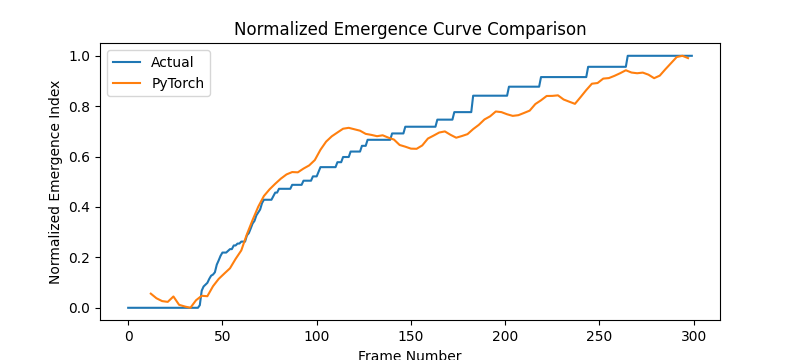
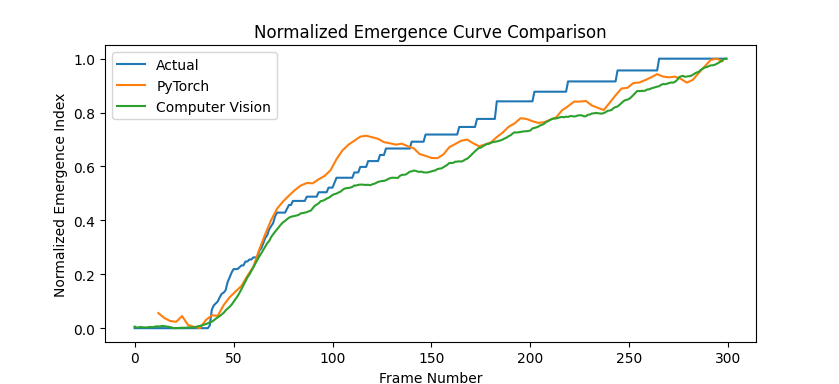
Updated poster

diff --git a/poster/poster.tex b/poster/poster.tex
@@ -9,7 +9,7 @@
 
 \usepackage[T1]{fontenc}
 \usepackage{lmodern}
-\usepackage[size=custom,width=101.6,height=76.2,scale=1.0]{beamerposter}
+\usepackage[size=custom,width=101.6,height=76.2,scale=1.2]{beamerposter}
 \usetheme{gemini}
 \usecolortheme{umn}
 \usepackage{graphicx}
@@ -36,7 +36,7 @@
 % Title
 % ====================
 
-\title{Phase-Sense: Physics Guided AI}
+\title{PhaseSense}
 
 \author{Joel Kuehne \and Alexis MacLean \and Cole Jaeger \and Hamza Rahmoune }
 
@@ -72,12 +72,10 @@
 
 \begin{column}{\colwidth}
 
-  \begin{block}{Emergent Phenomena and Colloidal Aggregation}
-    To cite Cambridge Dictionary, ``An emergent property of a complex system is one that does not belong to any part of that system on its own, but that happens as a result of parts of the system interacting''. This could be particles colliding in a fluid and sticking together forming clusters or it could be individual atoms joining together during crystal growth.
+  \begin{block}{Emergent Phenomena}
+    Cambridge Dictionary - ``An emergent property of a complex system is one that does not belong to any part of that system on its own, but that happens as a result of parts of the system interacting''. Emergent phenomena are everywhere, and the analysis of emergent phenomena is useful in many fields.
 
-    Emergent phenomena are everywhere, and the analysis of emergent phenomena is useful in many fields. When trying to understand or analyze emergent phenomena, it is useful to have some measure of the relative progress of the phenomenon. In general, we call this measure of the relative progress of the event over time the ``emergence index''. A plot of the emergence index over time is therefore an ``emergence curve''.
-
-    Researchers at the University of Pennsylvania use this framework in their analysis of the aggregation of asbestos particles in the paper ``Aggregation of Elongated Colloids in Water''~\cite{aggr}. Figure~\ref{fig:emergence} below shows some of the emergence curves that they gathered from timelapse microscope video. Note the three distinct phases of aggregation. In Phase I, aggregation has not yet started. There is a distinct onset time between Phase I and Phase II, where aggregation takes off. By Phase III, the aggregation has completed and the emergence curve levels off.
+    For example, understanding the aggregation kinetics of asbestos particles suspended in water can help researchers better understand how asbestos spreads in wet environments (see Figure~\ref{fig:emergence} below). Being able to predict the onset of HTT (Huntingtin) protein aggregation in neurons under a microscope is important for research on neurodegenerative diseases such as Huntington's disease~\cite{htt}.
 
     \begin{figure}[h]
       \centering
@@ -88,13 +86,11 @@
   \end{block}
 
   \begin{block}{Neural Networks for Emergence Analysis}
-    Analysis of emergent phenomena can be difficult. Classical computer vision techniques work well when particles can be easily distinguished and the emergence index can be calculated directly. This is not always the case. Low resolutions, small particle sizes, and lens aberrations can all complicate conventional analysis. Neural networks have proved to be quite effective in this regard~\cite{htt}, but require large, annotated datasets of microscope footage as training data.
-
-    With our project, Phase-Sense, we hope to show that neural networks trained on physically-accurate, simulated footage can provide an improvement over classical computer vision techniques in the analysis of emergent phenomena in timelapse microcopy. Our project consists of three parts:
+    Analysis of emergent phenomena can be difficult, and classical computer vision techniques can only go so far. Low resolutions, small particle sizes, and lens aberrations all complicate conventional analysis. Neural networks seem a good alternative, but it is often hard to source large, annotated datasets to train them. Our project demonstrates that neural networks trained on simulated footage are a suitable alternative to classical techniques in the analysis of emergent phenomena in microscopy.
 
     \begin{enumerate}
-      \item \textbf{PyTorch Neural Network} --- Analyzes timelapse microcope video of emergent phenomena. Produces an emergence curve for each video.
-      \item \textbf{Digital Twin Simulator} --- Creates annotated microscope footage that serves as an unlimited annotated training and testing for the neural network.
+      \item \textbf{PyTorch Neural Network} --- Analyzes time-lapse microscope video of emergent phenomena.
+      \item \textbf{Digital Twin Simulator} --- Creates annotated footage that serves as an unlimited training and testing set for the neural network.
       \item \textbf{Computer Vision Pipeline} --- Analyzes simulated video using classical computer vision techniques. Serves as a baseline for our neural network.
     \end{enumerate}
   \end{block}
@@ -106,22 +102,27 @@
 \begin{column}{\colwidth}
 
   \begin{block}{Methodology}
-    To test the effectiveness of our approach, we chose to model and analyze a similar physical phenomenon to that investigated in the paper ``Aggregation of Elongated Colloids in Water''~\cite{aggr}. We implemented this as a Brownian motion simulation. Particles are modeled as long ``spines'' of points. Random accelerations are applied to each of the particles, and occasional collisions between particles cause particles to stick together with some particular aggregation probability.
+    We chose to model and analyze a similar physical phenomenon to that investigated in the paper ``Aggregation of Elongated Colloids in Water''~\cite{aggr}. We implemented this as a Brownian motion simulation with random accelerations and probabilistic aggregation.
 
-    At the start of each simulation, the aggregation probability starts out at 0 (meaning aggregation is impossible). At some point in each simulation, the aggregation probability is suddenly increased. This is the onset time of our aggregation. Physically, this might correspond to some change in the solution that causes particles to stick together more.
-
-    The digital twin simulator generates hundreds of microscopy videos, with randomized parameters including particle size, acceleration, onset time, and aggregation probability. Each video is accompanied by a metadata file that includes the simulation parameters and the emergence curve calculated as the average number of particles in a cluster over time. An example frame from one of these videos is Figure~\ref{fig:frame} below.
+    The digital twin generates hundreds of simulated microscope videos with randomized particle shapes, accelerations, aggregation probabilities, and onset times. An example frame is in Figure~\ref{fig:frame} below.
 
     \begin{figure}[h]
       \centering
-      \includegraphics[width=0.65\textwidth]{frame.png}
+      \includegraphics[width=0.57\textwidth]{frame.png}
       \caption{Sample image from our simulated microscope footage.}
       \label{fig:frame}
     \end{figure}
 
-    The simulated videos and their associated metadata are passed into our neural network written in PyTorch. We used a CNN-TCN (Convolutional Neural Network, Temporal Convolutional Network) hybrid model. The CNN performs feature extraction on the each individual frame. It is implemented using the pretrained model ResNet50 which outputs 2048 spatial features for every input video. The TCN performs a temporal convolution on the input data and converts that to 64 temporal features. Finally, a fully connected layer takes the 64 temporal features and converts them to a single number. For every set of 5 frames window fed into the CNN-TCN, the model outputs one emergence index. By passing all possible 5 frame windows into the model in series, we can generate an emergence curve for every input video. Similarly, we can use thresholding to determine the onset time of the aggregation. A threshold of 1.5 appeared to produce the best results.
+    The core of our PyTorch neural network is a CNN-TCN (Convolutional Neural Network, Temporal Convolutional Network) hybrid model. The CNN (built on ResNet50) extracts spatial information from the frames of the video, while the TCN extracts temporal information over a five-frame window. The final layer produces a single emergence index for each frame. We stitch these indices together into curves and use thresholding to determine the aggregation onset.
 
-    To test the performance of our PyTorch model, we compared our results against a classical computer vision baseline. The classical computer vision pipeline first uses edge detection to identify individual particles. Next, it applies a closing operation to fill in each of the indicidual particles. It then identifies individual clusters as connected groups of white pixels. The computer vision model can then estimate the average size of the clusters by counting the number of white pixels in each connected group. This emergence index metric is not the same as that used in the digital twin simulator, where cluster size is computed in number of particles. In particular, it is vulnerable to differences in the size of particles. For this reason, we map all produced emergence curves onto the range $[0,1]$ before doing any performance comparisons.
+    Using Canny edge detection and a morphological closing operation, the computer vision pipeline identifies clusters of particles as connected groups of pixels. The model then computes the emergence index as the average number of white pixels in each cluster. The onset is computed in real time via thresholding. Figure~\ref{fig:curve} below contains a comparison of normalized emergence curves from the digital twin and the pipelines.
+
+    \begin{figure}[h]
+      \centering
+      \includegraphics[width=0.80\textwidth]{result_norm.png}
+      \caption{Normalized comparison of emergence curves.}
+      \label{fig:curve}
+    \end{figure}
   \end{block}
 \end{column}
 
@@ -130,37 +131,30 @@
 \begin{column}{\colwidth}
 
   \begin{block}{Results}
-    First and foremost, the machine learning model and computer vision models both produce reasonable emergence curves and onset estimates. In figure~\ref{fig:curve} below is a normalized comparison of curves produced by the digital twin and the two pipelines for a single simulated video.
+    The machine learning model and computer vision models both produce reasonable emergence curves and onset estimates. Normalized cumulative error and onset error histograms are below.
 
     \begin{figure}[h]
       \centering
-      \includegraphics[width=0.75\textwidth]{result_norm.png}
-      \caption{Normalized comparison of emergence curves from the digital twin and the two pipelines.}
-      \label{fig:curve}
-    \end{figure}
-
-    The onset estimates produced by both pipelines were also quite accurate to that provided by the digital twin simulator. In figure~\ref{fig:onset} below is a comparison of onset estimate errors for the two pipelines.
-
-    \begin{figure}[h]
-      \centering
-      \includegraphics[width=0.75\textwidth]{result_onset_error.png}
-      \caption{Onset estimate error distributions for the two pipelines.}
+      \includegraphics[width=0.63\textwidth]{result_tw_minmax_error.png}
+      \includegraphics[width=0.63\textwidth]{result_onset_error.png}
+      \caption{Cumulative error and onset error distributions for the pipelines.}
       \label{fig:onset}
     \end{figure}
    \end{block}
 
   \begin{block}{Conclusions}
-    Both pipelines produced sensible emergence curves and reasonably accurate onset estimates. The machine learning model did not provide much improvement over the classical computer vision baseline in this particular test. This is not a failure of the machine learning model but rather a testament to the success of the computer vision baseline.
+    Both pipelines performed very well. The machine learning model performed almost as well as the computer vision pipeline in onset detection and had a smaller cumulative emergence error. There is a lot more testing that could be done with this approach, however.
 
-    This project did not make full use of the unique capabilities of machine learning models. Future work should make use of the generality of machine learning models. Testing the ability of machine learning models to infer physical parameters (e.g., determining particle aggregation probability directly from video) or to analyze more complicated physical phenomena could further emphasize the benefits that machine learning models can have.
+    Future work should make use of the generality of machine learning models. Testing the ability of models to infer physical parameters (e.g., determining particle aggregation probability directly from video) or to analyze more complicated physical phenomena could further emphasize the benefits that machine learning models can have.
   \end{block}
 
-  \begin{block}{Acknowledgements and References}
-    Special thanks to Professor Sang-Hyun Oh <sang@umn.edu> and to his graduate student <howey024@umn.edu> for their guidance throughout the semester.
+  \begin{block}{Acknowledgements}
+    Special thanks to Professor Sang-Hyun Oh <sang@umn.edu> and to his graduate student <howey024@umn.edu> for their guidance.
+  \end{block}
 
+  \begin{block}{References}
     \nocite{*}
     \footnotesize{\bibliographystyle{plain}\bibliography{poster}}
-
   \end{block}
 
 \end{column}
